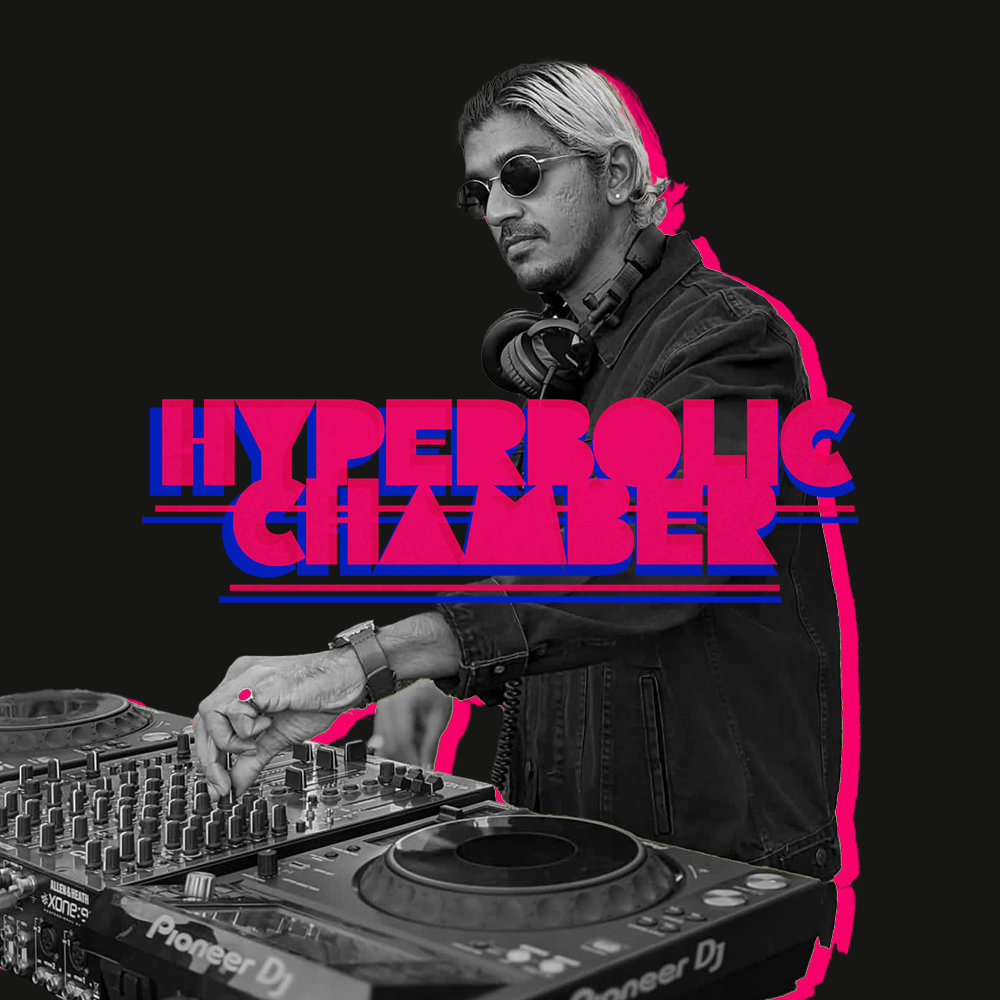
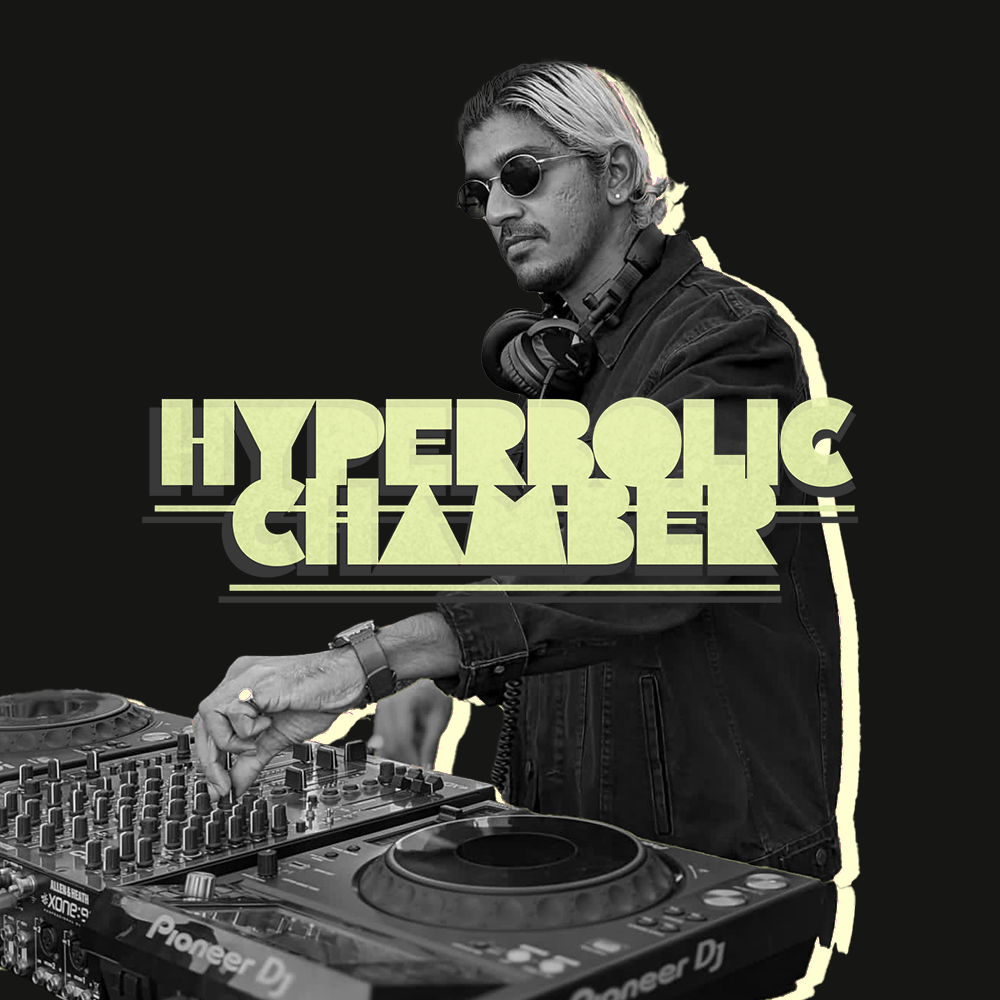
v4

diff --git a/get-featured/index.html b/get-featured/index.html
@@ -37,7 +37,7 @@
             <div>
               <p class="eyebrow">Submission</p>
               <h1 class="page-title page-title--mono">ENTER<br>THE<br>CHAMBER</h1>
-              <p class="page-intro">WeÃ¢â‚¬â„¢re looking for artists with tension in their selections, patience in their pacing, and a point of view that survives low light. If your sound belongs in a concrete room with a heavy system, send it through.</p>
+              <p class="page-intro">We're looking for artists with tension in their selections, patience in their pacing, and a point of view that survives low light. If your sound belongs in a concrete room with a heavy system, send it through.</p>
             </div>
             <article class="criteria-card">
               <p class="eyebrow">What We Want</p>
@@ -51,7 +51,7 @@
         </section>
 
         <section class="section">
-          <div class="feature-form-layout">
+          <div class="feature-form-layout feature-form-layout--align-center">
             <form class="form-card" data-featured-form>
               <div class="field">
                 <label for="name">Name</label>
@@ -73,20 +73,20 @@
                 <label for="message">Message</label>
                 <textarea id="message" name="message" placeholder="Tell us about your sound, references, and the room you imagine this living in."></textarea>
               </div>
-              <button class="button" type="submit">Open Submission Email</button>
+              <button class="button" type="submit">Submit</button>
             </form>
 
-            <div class="contact-grid">
-              <article class="social-card">
-                <p class="eyebrow">Direct Line</p>
-                <p><a href="https://www.instagram.com/hyperbolic__chamber__/" target="_blank" rel="noreferrer">@hyperbolic__chamber__</a></p>
-                <p>Use the form to generate an email draft. That keeps submissions simple while the site stays static.</p>
-              </article>
-              <article class="social-card">
-                <p class="eyebrow">Best Submissions</p>
-                <p>Include a recent mix, a short note on your sound, and anything visual that helps us understand your world.</p>
-              </article>
-            </div>
+            <article class="origins-connect featured-connect">
+              <div class="origins-connect__inner">
+                <h2 class="origins-connect__title">CONNECT WITH US</h2>
+                <div class="origins-connect__links" aria-label="Connect with Hyperbolic Chamber">
+                  <a class="origins-connect__link" href="https://www.instagram.com/hyperbolic__chamber__/" target="_blank" rel="noreferrer">
+                    <span class="origins-connect__glyph" aria-hidden="true">@</span>
+                    <span>HYPERBOLICCHAMBER</span>
+                  </a>
+                </div>
+              </div>
+            </article>
           </div>
         </section>
       </main>
@@ -94,7 +94,7 @@
         <div class="site-footer__inner">
           <div class="footer-grid">
             <div>
-              <p class="footer-tagline">Send pressure.<br>Send mood.<br>Send intent.</p>
+              <p class="footer-tagline">Turn On.<br>Tune In.<br>Drop Out.</p>
             </div>
             <div class="site-footer__logo">
               <img src="../assets/images/main-logo.png" alt="Hyperbolic Chamber">
@@ -112,8 +112,6 @@
     <script src="../assets/js/site.js"></script>
   </body>
 </html>
-
-
 
 
 

diff --git a/assets/css/site.css b/assets/css/site.css
@@ -1559,6 +1559,12 @@ label,
 }
 
 @media (max-width: 760px) {
+  .form-card[data-featured-form] .button {
+    display: flex;
+    width: fit-content;
+    margin: 0 auto;
+  }
+
   .episode-card__body {
     min-height: 0;
     grid-template-rows: auto auto auto;
@@ -2087,6 +2093,28 @@ label,
 
 
 
+
+
+
+
+.featured-connect {
+  align-self: center;
+  justify-self: center;
+  width: 100%;
+  padding-top: 0;
+}
+
+.featured-connect .origins-connect__inner {
+  padding: 0;
+}
+
+
+
+@media (min-width: 900px) {
+  .feature-form-layout--align-center {
+    align-items: center;
+  }
+}
 
 
 
